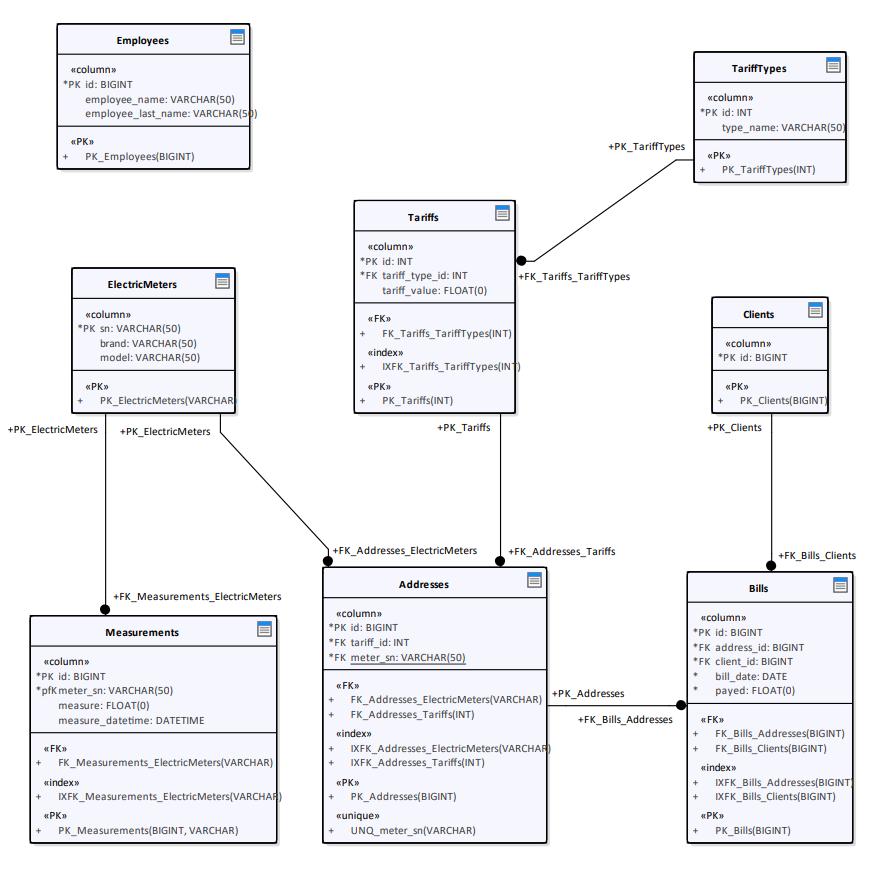
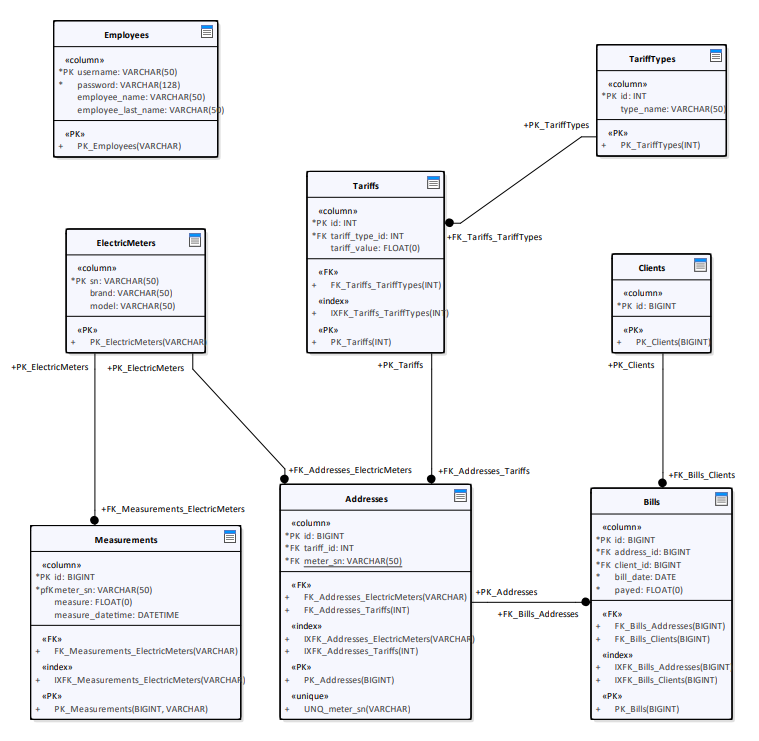
Added Employee controller and model.

diff --git a/src/main/java/ar/edu/utn/mdp/udee/models/Employee.java b/src/main/java/ar/edu/utn/mdp/udee/models/Employee.java
@@ -1,0 +1,29 @@
+package ar.edu.utn.mdp.udee.models;
+
+import lombok.AccessLevel;
+import lombok.AllArgsConstructor;
+import lombok.Data;
+import lombok.Setter;
+
+import java.util.Objects;
+
+@Data
+@AllArgsConstructor
+public class Employee {
+    @Setter(AccessLevel.PRIVATE) private String username;
+    private String name;
+    private String lastName;
+
+    @Override
+    public boolean equals(Object o) {
+        if (this == o) return true;
+        if (o == null || getClass() != o.getClass()) return false;
+        Employee employee = (Employee) o;
+        return Objects.equals(username, employee.username);
+    }
+
+    @Override
+    public int hashCode() {
+        return Objects.hash(username);
+    }
+}

diff --git a/src/main/java/ar/edu/utn/mdp/udee/controllers/EmployeeController.java b/src/main/java/ar/edu/utn/mdp/udee/controllers/EmployeeController.java
@@ -1,0 +1,14 @@
+package ar.edu.utn.mdp.udee.controllers;
+
+import org.springframework.web.bind.annotation.PostMapping;
+import org.springframework.web.bind.annotation.RestController;
+
+@RestController
+public class EmployeeController {
+
+    @PostMapping("/employee/login")
+    public Integer employee(String username, String password) {
+        return 1;
+    }
+
+}
